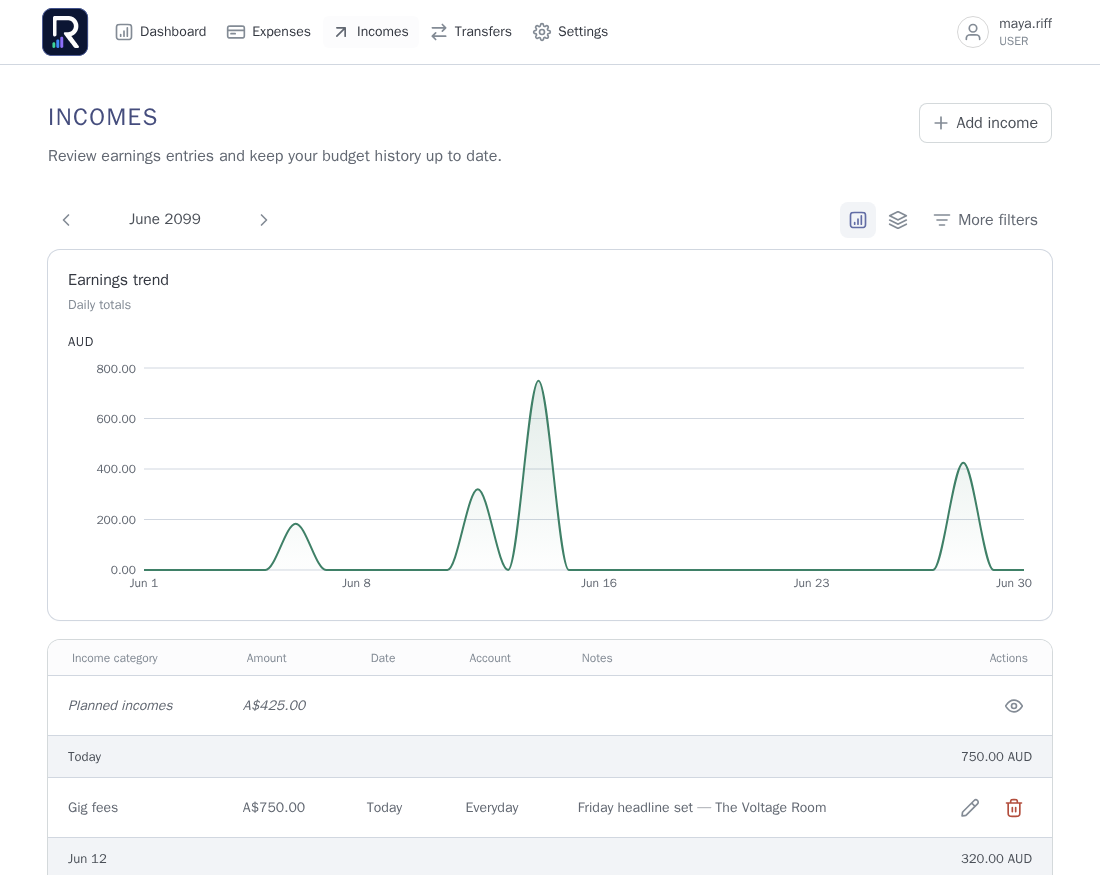
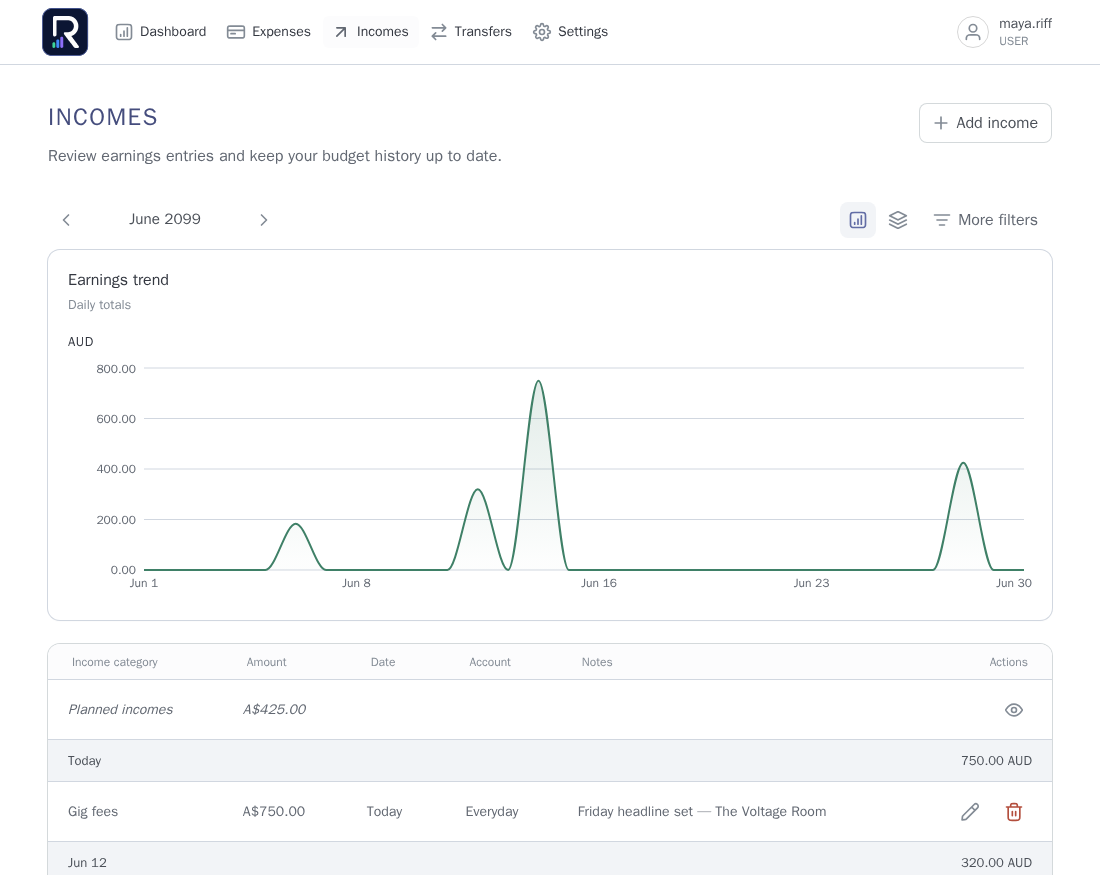
fix: refine chart hover details

diff --git a/ui/src/components/charts/TransactionTimeSeriesChart.tsx b/ui/src/components/charts/TransactionTimeSeriesChart.tsx
@@ -1,4 +1,5 @@
 import { useId } from "react";
+import type { TooltipContentProps } from "recharts";
 import {
   Area,
   AreaChart,
@@ -12,7 +13,6 @@ import {
 import type { TransactionTimeSeries } from "@/api/transactions";
 import {
   ChartActiveDot,
-  ChartTooltipContent,
   selectEvenlySpacedItems,
 } from "@/components/untitled/application/charts/charts-base";
 import { LoadingIndicator } from "@/components/untitled/application/loading-indicator/loading-indicator";
@@ -107,8 +107,11 @@ export function TransactionTimeSeriesChart({
       )}
 
       {timeSeries && (
-        <table className="sr-only" data-testid="transaction-chart-data">
-          <caption>{title} data</caption>
+        <table
+          className="sr-only"
+          aria-label={`${title} data`}
+          data-testid="transaction-chart-data"
+        >
           <thead>
             <tr>
               <th>Bucket</th>
@@ -193,16 +196,14 @@ function CurrencyAreaChart({
             />
             <Tooltip
               cursor={{ stroke: "#d1d7e0", strokeWidth: 1 }}
-              content={
-                <ChartTooltipContent
-                  formatter={(amountMinor) =>
-                    formatMoney(Number(amountMinor), series.currency)
-                  }
-                  labelFormatter={(bucket) =>
-                    formatBucketTooltip(String(bucket), granularity)
-                  }
+              wrapperStyle={{ zIndex: 10, pointerEvents: "none" }}
+              content={(props) => (
+                <TransactionChartTooltip
+                  {...props}
+                  currency={series.currency}
+                  granularity={granularity}
                 />
-              }
+              )}
             />
             <Area
               type="monotone"
@@ -211,12 +212,37 @@ function CurrencyAreaChart({
               stroke={color}
               strokeWidth={2}
               fill={`url(#${gradientId})`}
-              activeDot={<ChartActiveDot />}
+              activeDot={<ChartActiveDot color={color} />}
               animationMatchBy={matchByDataKey("bucket")}
             />
           </AreaChart>
         </ResponsiveContainer>
       </div>
+    </div>
+  );
+}
+
+function TransactionChartTooltip({
+  active,
+  payload,
+  label,
+  currency,
+  granularity,
+}: TooltipContentProps & {
+  currency: string;
+  granularity: TransactionTimeSeries["granularity"];
+}) {
+  if (!active || !payload?.length || label === undefined) {
+    return null;
+  }
+
+  return (
+    <div
+      className="transaction-chart-tooltip"
+      data-testid="transaction-chart-tooltip"
+    >
+      <p>{formatBucketTooltip(String(label), granularity)}</p>
+      <strong>{formatMoney(Number(payload[0].value), currency)}</strong>
     </div>
   );
 }

diff --git a/ui/src/styles.css b/ui/src/styles.css
@@ -360,7 +360,7 @@ input {
 
 .transaction-chart-panel {
   width: 100%;
-  margin-bottom: 20px;
+  margin-bottom: 24px;
   overflow: hidden;
   border-radius: 12px;
   background: #ffffff;
@@ -414,6 +414,27 @@ input {
 .transaction-chart-canvas {
   width: 100%;
   height: 240px;
+}
+
+.transaction-chart-tooltip {
+  display: grid;
+  gap: 2px;
+  border-radius: 8px;
+  background: #343841;
+  padding: 8px 12px;
+  color: #ffffff;
+  box-shadow: 0 8px 16px rgb(16 24 40 / 18%);
+}
+
+.transaction-chart-tooltip p {
+  margin: 0;
+  color: #d4d9db;
+  font-size: 0.75rem;
+}
+
+.transaction-chart-tooltip strong {
+  font-size: 0.8125rem;
+  font-weight: 600;
 }
 
 .transaction-chart-message {
@@ -792,7 +813,7 @@ input {
   }
 
   .transaction-chart-panel {
-    margin-bottom: 16px;
+    margin-bottom: 20px;
   }
 
   .transaction-chart-header {

diff --git a/src/test/kotlin/io/orangebuffalo/renalo/ExpensesPagePlaywrightTest.kt b/src/test/kotlin/io/orangebuffalo/renalo/ExpensesPagePlaywrightTest.kt
@@ -473,6 +473,22 @@ class ExpensesPagePlaywrightTest : IntegrationTestSupport() {
         page.shouldEventuallyContainChartPoints(
             ChartPoint("2099-06-14", "AUD", 4201),
         )
+        page.locator("[data-testid='transaction-chart-data'] caption").count().shouldBe(0)
+
+        val chartCanvas = page.locator(".transaction-chart-canvas")
+        val chartBounds = chartCanvas.boundingBox()
+        val chartPlotWidth = chartBounds.width - 84
+        page.mouse().move(
+            chartBounds.x + 76 + chartPlotWidth * 13 / 29,
+            chartBounds.y + chartBounds.height / 2,
+        )
+        val chartTooltip = page.locator("[data-testid='transaction-chart-tooltip']")
+        assertThat(chartTooltip).containsText("June 14, 2099")
+        assertThat(chartTooltip).containsText("A$42.01")
+        assertThat(page.locator(".recharts-active-dot rect")).hasAttribute("fill", "#d16a56")
+        page.locator(".recharts-tooltip-wrapper")
+            .evaluate("element => getComputedStyle(element).zIndex")
+            .shouldBe("10")
 
         openMoreFilters(page)
         selectMoreFilterOption(page, "Category", "Groceries")

diff --git a/ui/src/components/untitled/application/charts/charts-base.tsx b/ui/src/components/untitled/application/charts/charts-base.tsx
@@ -124,17 +124,28 @@ export const ChartTooltipContent = ({ active, payload, label, isRadialChart, isP
 };
 
 interface ChartActiveDotProps extends DotProps {
+    color?: string;
     // We have to use `any` here because the `payload` prop is not typed correctly in the `recharts` library.
     // eslint-disable-next-line @typescript-eslint/no-explicit-any
     payload?: any;
 }
 
-export const ChartActiveDot = ({ cx = 0, cy = 0 }: ChartActiveDotProps) => {
+export const ChartActiveDot = ({ cx = 0, cy = 0, color }: ChartActiveDotProps) => {
     const size = 12;
 
     return (
         <svg x={cx - size / 2} y={cy - size / 2} width={size} height={size} viewBox="0 0 12 12" fill="none">
-            <rect x="2" y="2" width="8" height="8" rx="6" className="fill-bg-primary stroke-utility-brand-600" strokeWidth="2" />
+            <rect
+                x="2"
+                y="2"
+                width="8"
+                height="8"
+                rx="6"
+                className={color ? undefined : "fill-bg-primary stroke-utility-brand-600"}
+                fill={color}
+                stroke={color}
+                strokeWidth="2"
+            />
         </svg>
     );
 };